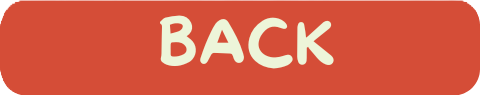
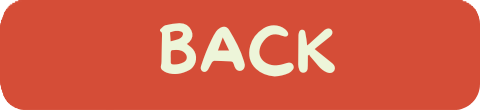
Refactor button size handling and add border to images

diff --git a/components/button.py b/components/button.py
@@ -1,19 +1,18 @@
 from kivy.graphics import Color
 from kivy.core.audio import SoundLoader
 from kivy.animation import Animation
-from kivy.clock import Clock
 from kivy.uix.image import Image
 from kivy.core.window import Window
-from kivy.graphics import Color, Line
+from kivy.graphics import Line
 
 class CustomButton(Image):
-    def __init__(self, app, size_original, destination="", sound_clicked="public/sound/click.mp3", show_border=True, **kwargs):
+    def __init__(self, app, size_original, destination="", sound_clicked="public/sound/click.mp3", show_border=False, **kwargs):
         super(CustomButton, self).__init__(**kwargs)
         self.app = app
         self.destination = destination
         self.show_border = show_border
 
-        self.default_size_hint, self.clicked_size_hint, self.size_hint = Create_size(self.texture_size, size_original)
+        self.default_size_hint, self.clicked_size_hint, self.size_hint = self.create_size(size_original)
 
         self.click_sound = SoundLoader.load(sound_clicked)
         if self.click_sound:
@@ -26,7 +25,7 @@ class CustomButton(Image):
             with self.canvas.before:
                 Color(1, 0, 0, 1)
                 self.border = Line(width=2)
-            
+
             self.bind(pos=self._update_border, size=self._update_border)
 
     def _update_border(self, *args):
@@ -62,21 +61,22 @@ class CustomButton(Image):
         else:
             self.app.change_screen(self.destination)
 
-def Create_size(texture_size, size_original):
-    target_width = size_original
-    original_width = texture_size[0]
-    original_height = texture_size[1]
+    def create_size(self, size_original):
+        original_width = self.texture_size[0]
+        original_height = self.texture_size[1]
 
-    new_height = (target_width / original_width) * original_height
+        target_width = size_original
+        new_height = (target_width / original_width) * original_height
 
-    window_width = Window.size[0]
-    window_height = Window.size[1]
+        window_width = Window.size[0]
+        window_height = Window.size[1]
 
-    default_size_hint = (target_width / window_width, new_height / window_height)
+        default_size_hint = (target_width / window_width, new_height / window_height)
+        clicked_size_hint = (default_size_hint[0] + 0.1, default_size_hint[1] + 0.1)
 
-    clicked_size_hint = (default_size_hint[0] + 0.1, default_size_hint[1] + 0.1)
+        default_hint = default_size_hint
 
-    return default_size_hint, clicked_size_hint, default_size_hint
+        return default_size_hint, clicked_size_hint, default_hint
 
 class ImageWithBorder(Image):
     def __init__(self, **kwargs):

diff --git a/pages/level/select_level_menu.py b/pages/level/select_level_menu.py
@@ -12,11 +12,12 @@ class ChooseIcon(FloatLayout):
         self.app = app
         
         centerY = 0.40
+        color = (213/255, 77/255, 55/255, 1)
 
         lagu_daerah_label = Label(
             text="Lagu\nDaerah",
             font_name="more_sugar",
-            color=(213/255, 77/255, 55/255, 1), 
+            color=color, 
             font_size=30,
             pos_hint={'center_x': 0.25, 'center_y': 0.60},
             halign='center',
@@ -38,7 +39,7 @@ class ChooseIcon(FloatLayout):
         lagu_nasional_label = Label(
             text="Lagu\nKemerdekaan",
             font_name="more_sugar",
-            color=(213/255, 77/255, 55/255, 1),
+            color=color,
             font_size=30,
             pos_hint={'center_x': 0.75, 'center_y': 0.60},
             halign='center',
@@ -64,7 +65,7 @@ class ChooseGameScreen(Screen):
         
         layout = FloatLayout()
         
-        background = Image(source="public/img/v2/choice_menu_screen/bg1.png",
+        background = Image(source="public/img/v2/bg1.png",
                             allow_stretch=True,
                             keep_ratio=True)
         layout.add_widget(background)

diff --git a/pages/main_menu.py b/pages/main_menu.py
@@ -11,13 +11,15 @@ class MainMenuScreen(Screen):
         
         layout = FloatLayout()
 
-        background = Image(source="public/img/v2/home_screen/bg.png", 
+        background = Image(source="public/img/v2/bg1.png", 
                    size_hint=(1, 1), 
+                    allow_stretch=True,
                    pos_hint={'center_x': 0.5, 
                              'center_y': 0.5})
         layout.add_widget(background)
         
         info = Image(source="public/img/v2/home_screen/info.png", 
+                     allow_stretch=True,
                      pos_hint={'center_x': 0.5, 
                                'center_y': 0.5})
         layout.add_widget(info)

diff --git a/main.py b/main.py
@@ -1,4 +1,5 @@
 import sys
+
 from kivy.app import App
 from kivy.core.audio import SoundLoader
 from kivy.core.window import Window
@@ -62,5 +63,3 @@ if __name__ == "__main__":
         MyApp().run()
     except KeyboardInterrupt:
         sys.exit(0)
-
-# Create by team 8 #
